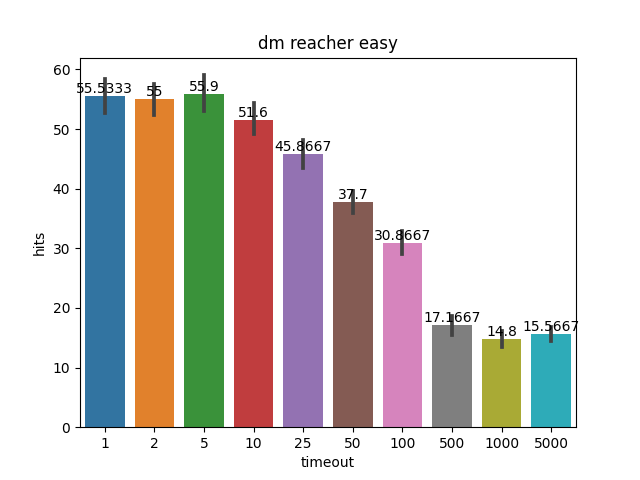
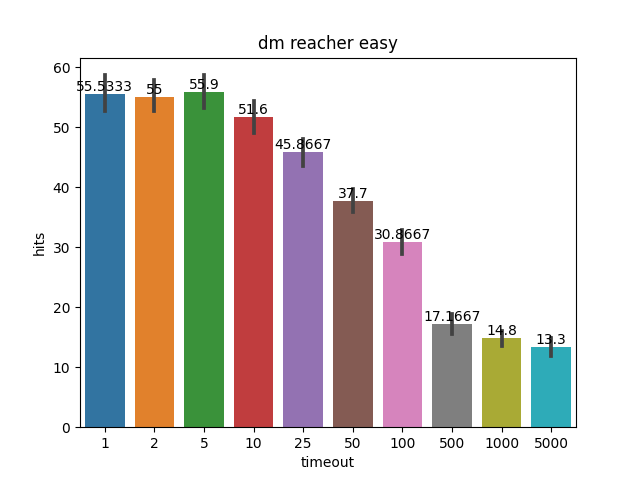
fixed timeout 5000 init stat

diff --git a/rl_suite/envs/dm_control_wrapper.py b/rl_suite/envs/dm_control_wrapper.py
@@ -404,7 +404,7 @@ def ranndom_policy_hits_vs_timeout():
                 np.random.seed(seed)
 
                 if env_s == 'ball in cup':
-                    env = BallInCupWrapper(seed, penalty=-1)
+                    env = BallInCupWrapper(seed)
                 elif env_s == 'dm reacher hard':
                     env = ReacherWrapper(seed=seed, mode="hard")
                 elif env_s == 'dm reacher easy':
